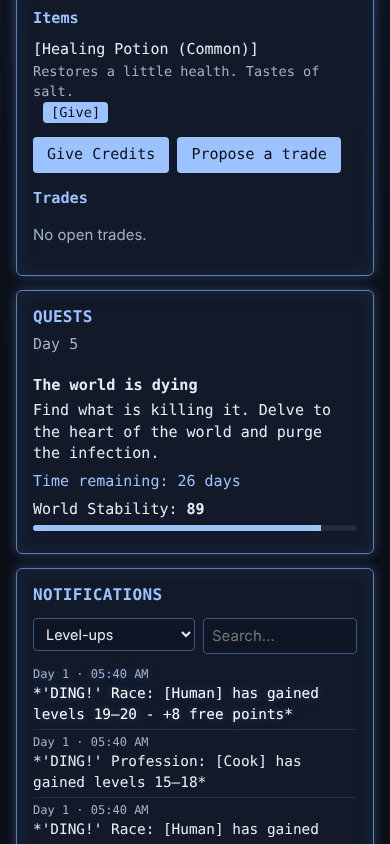
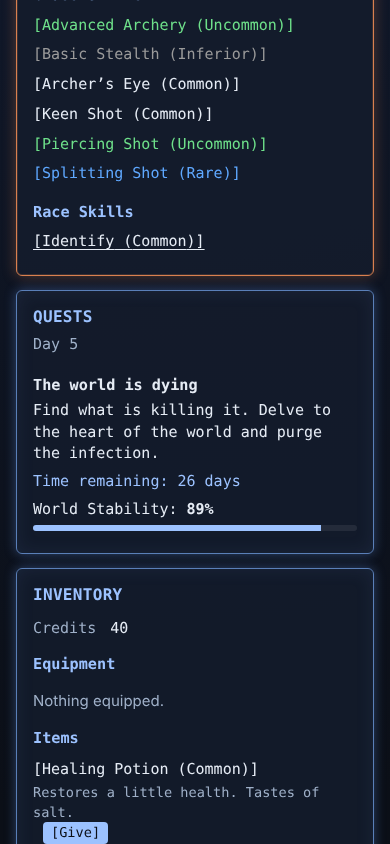
fix(M3.8): address review (quests right after Status on phones, gauge label in percent with aria-valuetext)
Claude-Session: https://claude.ai/code/session_01M556vucMAQVV2QSY8JL1qh

diff --git a/e2e/M3.8.spec.ts b/e2e/M3.8.spec.ts
@@ -70,7 +70,7 @@ test('the quest log shows the demo quest and follows the GM live', async ({ brow
   const quest = log.getByRole('article', { name: 'The world is dying' });
   await expect(quest).toContainText('Delve to the heart of the world and purge the infection.');
   await expect(quest.getByTestId('quest-time')).toHaveText('Time remaining: 26 days');
-  await expect(quest.getByTestId('stability-value')).toHaveText('89');
+  await expect(quest.getByTestId('stability-value')).toHaveText('89%');
   await expect(quest.getByRole('meter', { name: 'World Stability' })).toHaveAttribute(
     'aria-valuenow',
     '89',
@@ -83,13 +83,35 @@ test('the quest log shows the demo quest and follows the GM live', async ({ brow
   await phone.goto(server.url);
   await phone.getByRole('link', { name: /Miranda/ }).click();
   const phoneLog = phone.getByTestId('quests');
-  await expect(phoneLog.getByTestId('stability-value')).toHaveText('89');
+  await expect(phoneLog.getByTestId('stability-value')).toHaveText('89%');
   await phoneLog.scrollIntoViewIfNeeded();
   await phone.screenshot({ path: path.join(shots, 'player-quests-390x844.png') });
 
   // Live: a cleansed zone drops the gauge; days pass; the GM hides the gauge.
   await gmCommand(gm, { type: 'stability.applyAction', questId: 'demo-quest', tag: 'cleanse' });
-  await expect(quest.getByTestId('stability-value')).toHaveText('84');
+  await expect(quest.getByTestId('stability-value')).toHaveText('84%');
+  await expect(quest.getByRole('meter', { name: 'World Stability' })).toHaveAttribute(
+    'aria-valuetext',
+    '84%',
+  );
+  // Phones: Status, then Quests, before the inventory (M3.8 review).
+  const order = await phone.evaluate(() => {
+    const d = (
+      globalThis as unknown as {
+        document: {
+          querySelector: (s: string) => { getBoundingClientRect: () => { top: number } } | null;
+        };
+      }
+    ).document;
+    const top = (s: string) => d.querySelector(s)?.getBoundingClientRect().top ?? -1;
+    return [
+      top('[data-testid=status]'),
+      top('[data-testid=quests]'),
+      top('[data-testid=inventory]'),
+    ];
+  });
+  expect(order[0]).toBeLessThan(order[1] ?? 0);
+  expect(order[1]).toBeLessThan(order[2] ?? 0);
   await gmCommand(gm, { type: 'campaign.advanceDay', days: 25 });
   await expect(quest.getByTestId('quest-time')).toHaveText('Time remaining: 1 day');
   await gmCommand(gm, { type: 'campaign.advanceDay' });

diff --git a/apps/web/src/player/QuestLog.tsx b/apps/web/src/player/QuestLog.tsx
@@ -51,7 +51,7 @@ function Quest({ quest: q }: { quest: PlayerQuest }) {
         <div className="stability" data-testid="stability">
           <span className="stability-label">
             World Stability:{' '}
-            <strong data-testid="stability-value">{stabilityLabel(q.stability)}</strong>
+            <strong data-testid="stability-value">{stabilityLabel(q.stabilityPercent)}%</strong>
           </span>
           <span
             className="stability-bar"
@@ -60,6 +60,7 @@ function Quest({ quest: q }: { quest: PlayerQuest }) {
             aria-valuemin={0}
             aria-valuemax={100}
             aria-valuenow={q.stabilityPercent}
+            aria-valuetext={`${stabilityLabel(q.stabilityPercent)}%`}
           >
             <span style={{ width: `${q.stabilityPercent}%` }} />
           </span>

diff --git a/apps/web/src/styles.css b/apps/web/src/styles.css
@@ -368,6 +368,24 @@ a {
   .player-grid {
     grid-template-columns: minmax(0, 1fr);
   }
+  /* One column (M3.8 review): Status, then Quests (deadlines), then the rest. */
+  .player-grid > .player-col,
+  .player-grid > .feeds {
+    display: contents;
+  }
+  .player-col > *,
+  .feeds > * {
+    order: 10;
+  }
+  .player-grid .status-window {
+    order: 1;
+  }
+  .player-grid .quests {
+    order: 2;
+  }
+  .player-grid .inventory-window {
+    order: 3;
+  }
   .gm-header {
     flex-wrap: wrap;
   }
@@ -1144,7 +1162,8 @@ button.skill-open:hover .skill-name {
   padding: 6px 0 8px;
   border-bottom: 1px solid rgba(90, 127, 184, 0.2);
 }
-.quest:last-of-type {
+.quests > .quest:last-of-type,
+.quests details > .quest:last-of-type {
   border-bottom: none;
 }
 .quest-title {

diff --git a/docs/DECISIONS.md b/docs/DECISIONS.md
@@ -84,4 +84,4 @@ Newest at the bottom. Format: ID · date · decision · why.
 - D80 · 2026-10-22 · Skill selection (M3.6): pure UI over the existing projection (`me.selections`) and the player-allowed `selection.choose`. A "Skill selection · N waiting · [Choose]" strip sits under the Free points/Titles rows, not as a new §9 row, so the books' status layout stays as DESIGN §9 lists it. [Choose] opens the lowest-level open menu in a modal dialog: the options as cards side by side (one column on phones) with the rarity-coloured `[Name (Rarity)]`, Class/Profession kind, rarity and description; Choose → review ("The choice is final") → Confirm. The command carries the `offerId`, so a re-offered menu refuses a stale pick; if the GM re-offers, chooses or undoes the open menu, the dialog closes with a notice instead of swapping menus. Escape/Close leaves the choice for downtime (DESIGN §6). The GM's View-as panes show the badge without [Choose]. No new notification kind for offered/chosen selections yet (Q31). · Matches the free-points pattern (M3.4, D38) and keeps the engine untouched.
 - D81 · 2026-10-22 · Effective stats (M3.7): pool maxima use effective stats (base + equipped items; titles join in M6.4) everywhere: the pool-set range check, the own sheet and the party bars. Invariant enforced in `applyEvent`: after every event, a character whose stats, holdings or the item library changed has each pool clamped down to its effective maximum; a rising maximum never refills a pool. The base-stat clamps inside `character.statsSet` and free-point events were removed in favour of this one (they would have clamped below a gear-raised maximum). Undo stays deterministic: undoing an equip that a later pool set relied on is refused as a dependency (D31); undoing an unequip restores the earlier, higher value because the log refolds. Golden states are unchanged (no golden log clamps). `OwnSheet` keeps `stats` as base stats (the free-point dialog adds to them) and adds `effectiveStats`; the Stats block shows the effective value with the gear difference in small text under it. · DESIGN §7 items with bonuses and §9 values that update live; refilling on equip would let players heal by swapping rings.
 - D82 · 2026-10-22 · Inventory screen (M3.7): an Inventory window under the Status window (same column; one column on phones): currency, equipped slots with [Unequip], items with count, bonuses, description, [Equip] (first empty slot of the item's kind, else swaps slot 1) and [Give], plus "Give <currency>" and "Propose a trade". Trades list offers to the player ([Accept]/[Decline]), their own open offers ([Withdraw]) and a collapsed "Past trades". A proposal gives currency and/or one held item and asks for currency only, because players never see other inventories or the GM's item library (D59/D60). New notification kinds: `gift` (recipient only, with item names and the currency name) and `trade` (the party who did not act: offered, accepted, declined, withdrawn); both pop up like System messages and have a "Gifts and trades" history filter (Q32). The GM's View-as panes show the window read-only. · Keeps GM-only library data off player screens while covering DESIGN §7 "giving/trading between players and the GM".
-- D83 · 2026-10-22 · Quest log (M3.8): a "Quests" window heads the right-hand column, above Notifications. It shows the in-game day, then each visible active quest: title, text, "Time remaining: N days" (red at 3 days or fewer, "Time is up" at 0), and, only when the GM made it visible, "World Stability: <value>" with a bar (`role="meter"`). Finished quests (completed or failed) sit under a collapsed "Finished quests (N)" with a status badge. The projection adds `stabilityPercent` (the value's place in the configured min–max range, 0–100), so the gauge is drawn without sending the stability rules to players. · DESIGN §7 "Quests" and §8 tutorial quest text; the rules projection stays free of stability tuning.
+- D83 · 2026-10-22 · Quest log (M3.8): a "Quests" window heads the right-hand column, above Notifications. It shows the in-game day, then each visible active quest: title, text, "Time remaining: N days" (red at 3 days or fewer, "Time is up" at 0), and, only when the GM made it visible, "World Stability: <percent>%" with a bar (`role="meter"`). Finished quests (completed or failed) sit under a collapsed "Finished quests (N)" with a status badge. The projection adds `stabilityPercent` (the value's place in the configured min–max range, 0–100; DESIGN §7 "World Stability %"), shown as the label and the bar, so the gauge is drawn without sending the stability rules to players. · DESIGN §7 "Quests" and §8 tutorial quest text; the rules projection stays free of stability tuning.
